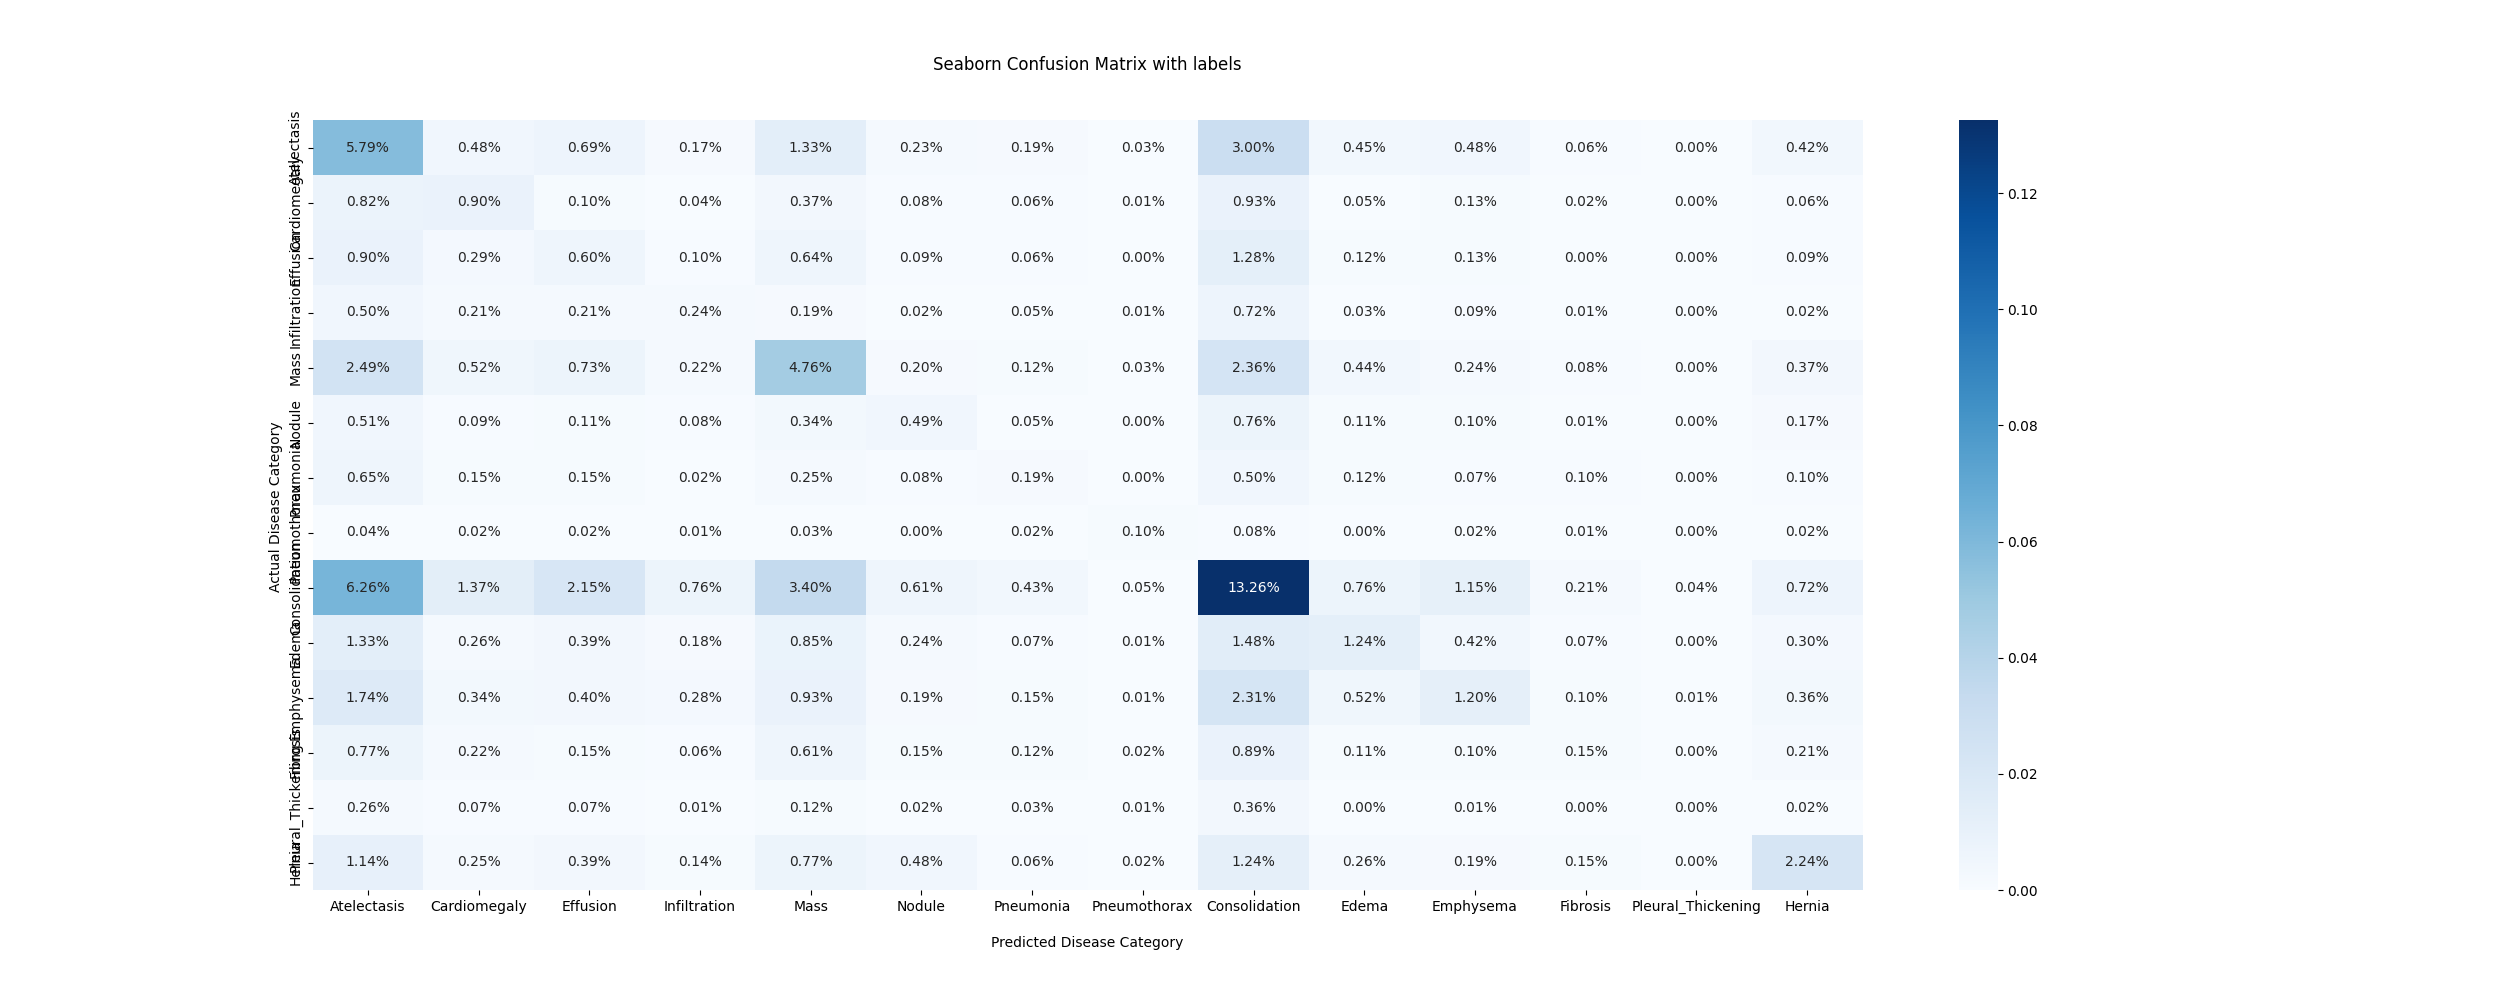
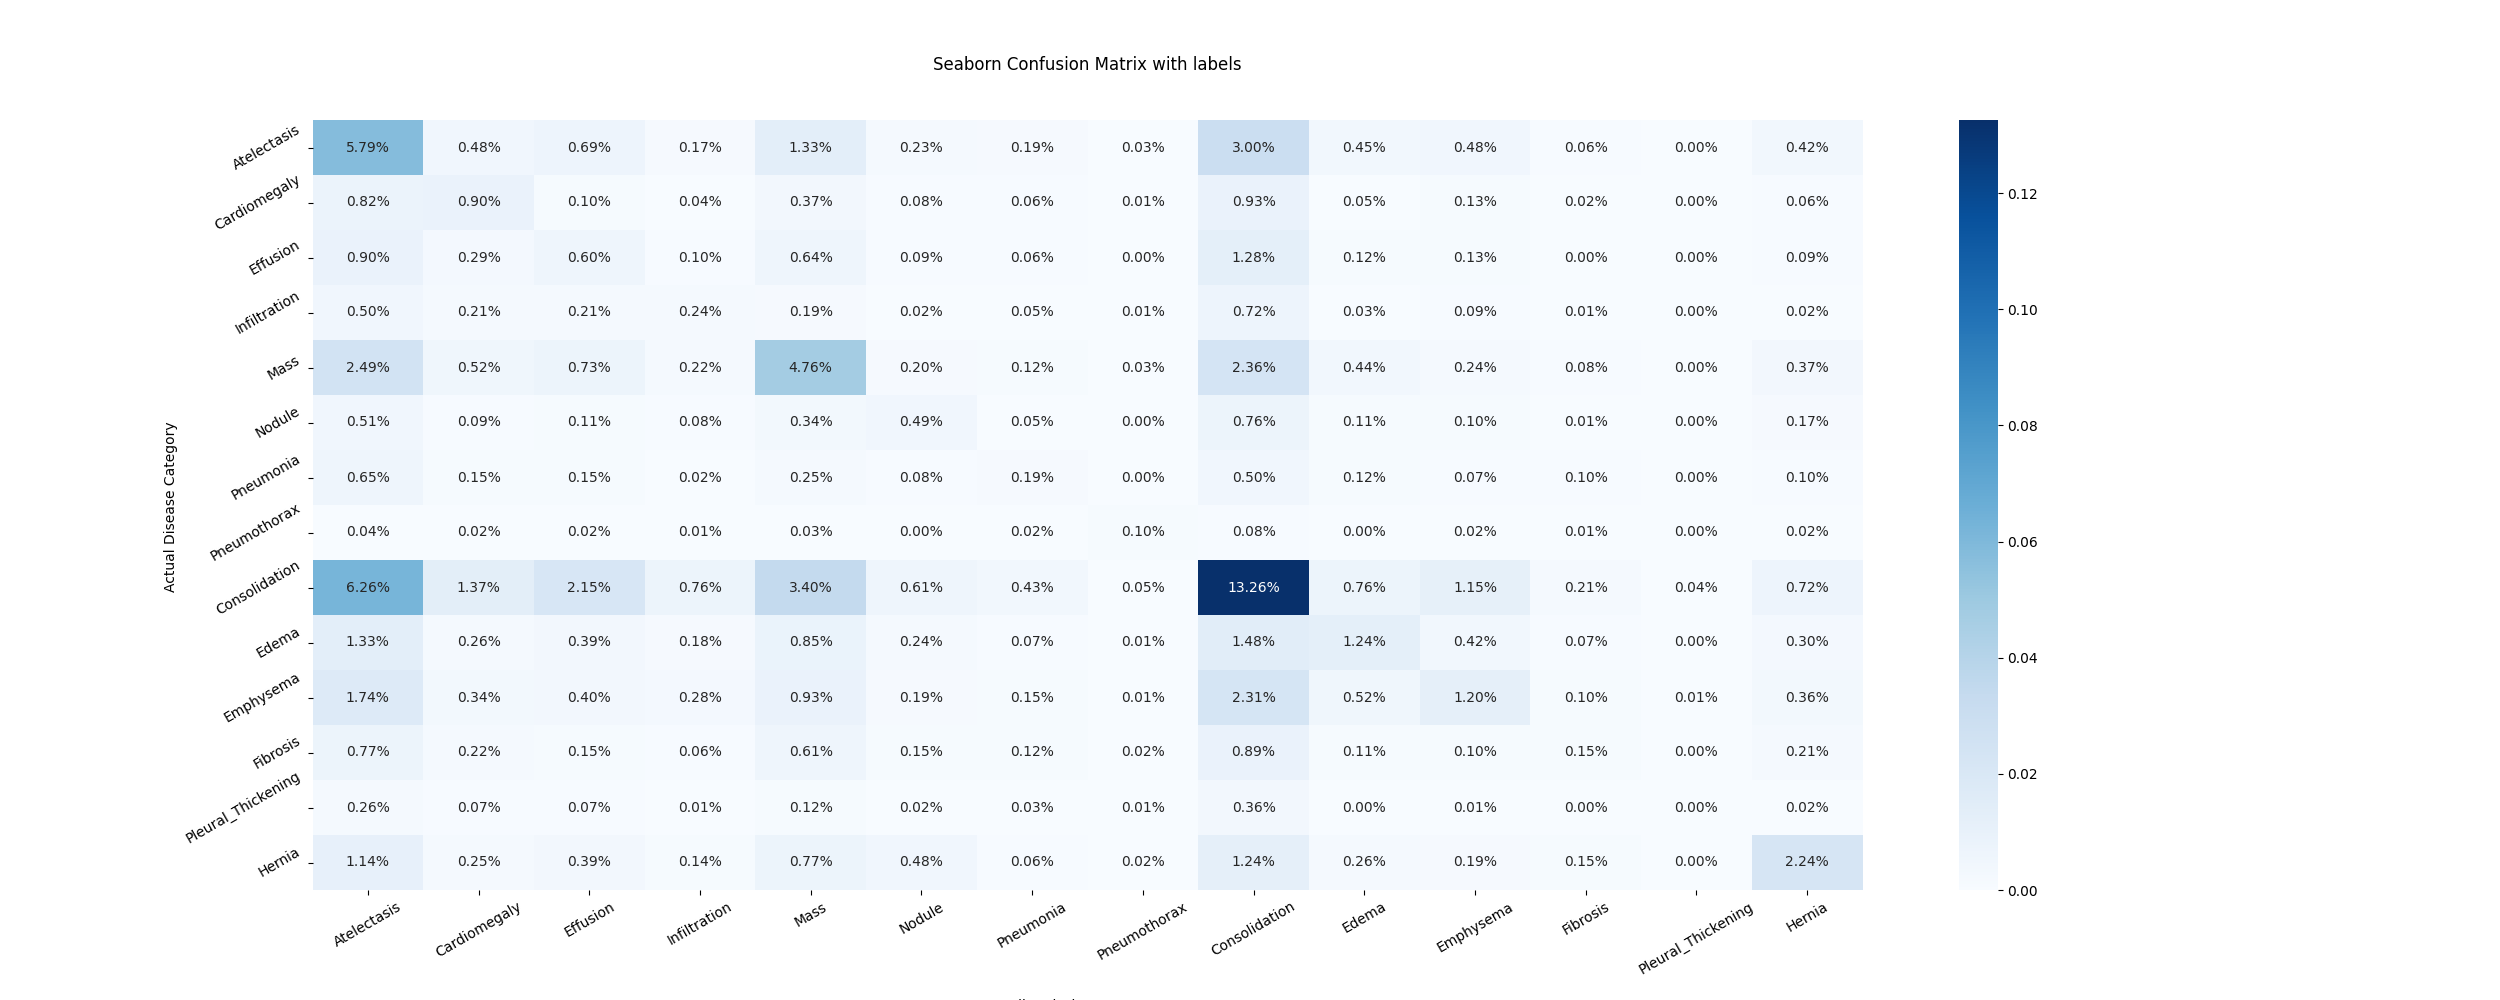
added visualization / Confusion matrix.py

diff --git a/visualization.py b/visualization.py
@@ -54,10 +54,10 @@ ax.set_ylabel('Actual Disease Category ');
 ## Ticket labels - List must be in alphabetical order
 ax.xaxis.set_ticklabels(['Atelectasis', 'Cardiomegaly','Effusion','Infiltration','Mass'
                             ,'Nodule','Pneumonia','Pneumothorax','Consolidation','Edema','Emphysema'
-                            ,'Fibrosis','Pleural_Thickening','Hernia'])
+                            ,'Fibrosis','Pleural_Thickening','Hernia'],rotation = 30)
 ax.yaxis.set_ticklabels(['Atelectasis', 'Cardiomegaly','Effusion','Infiltration','Mass'
                             ,'Nodule','Pneumonia','Pneumothorax','Consolidation','Edema','Emphysema'
-                            ,'Fibrosis','Pleural_Thickening','Hernia'])
+                            ,'Fibrosis','Pleural_Thickening','Hernia'],rotation = 30)
 
 ## Display the visualization of the Confusion Matrix.
 plt.savefig('Confusion Matrix.png')
